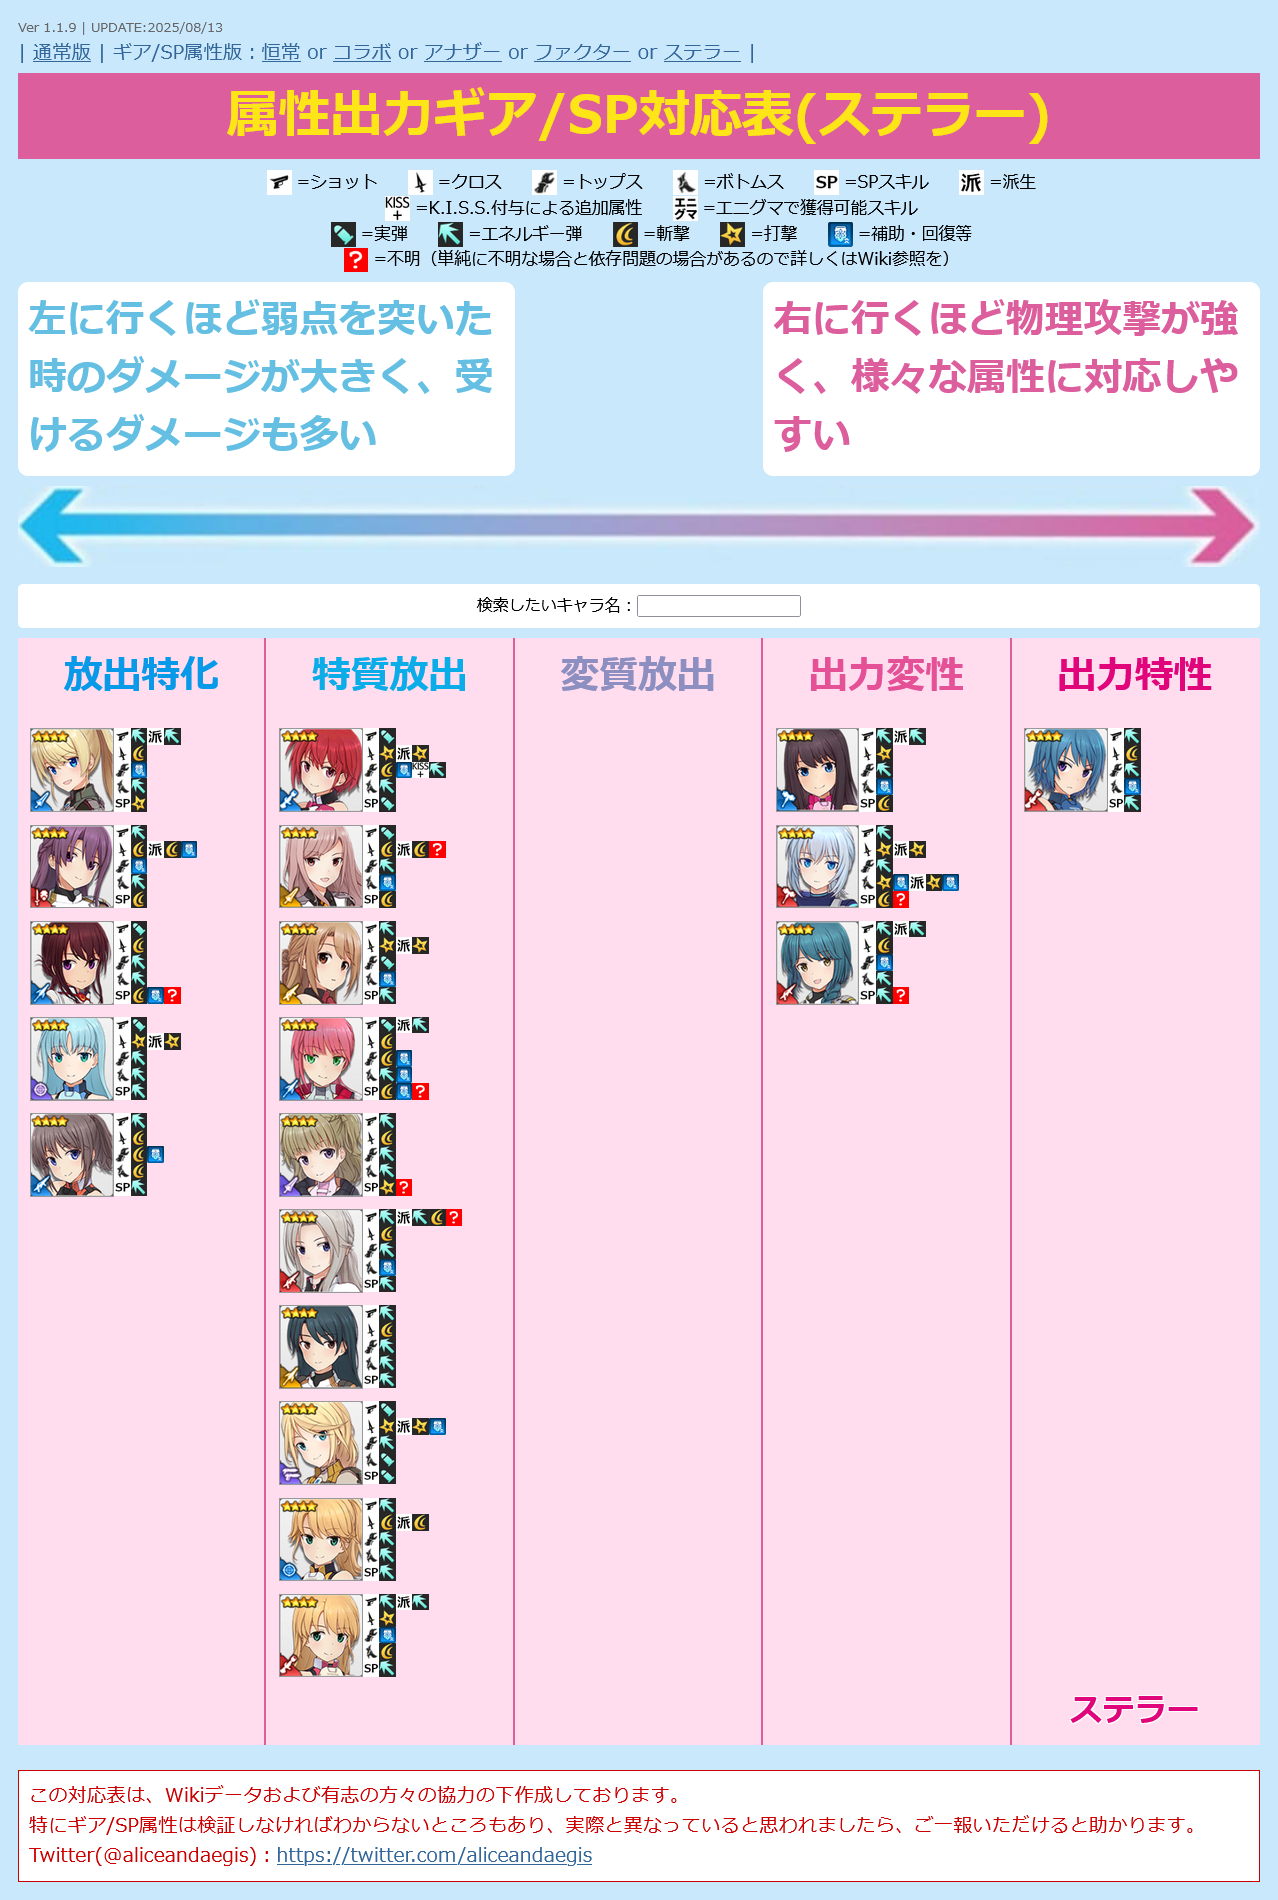
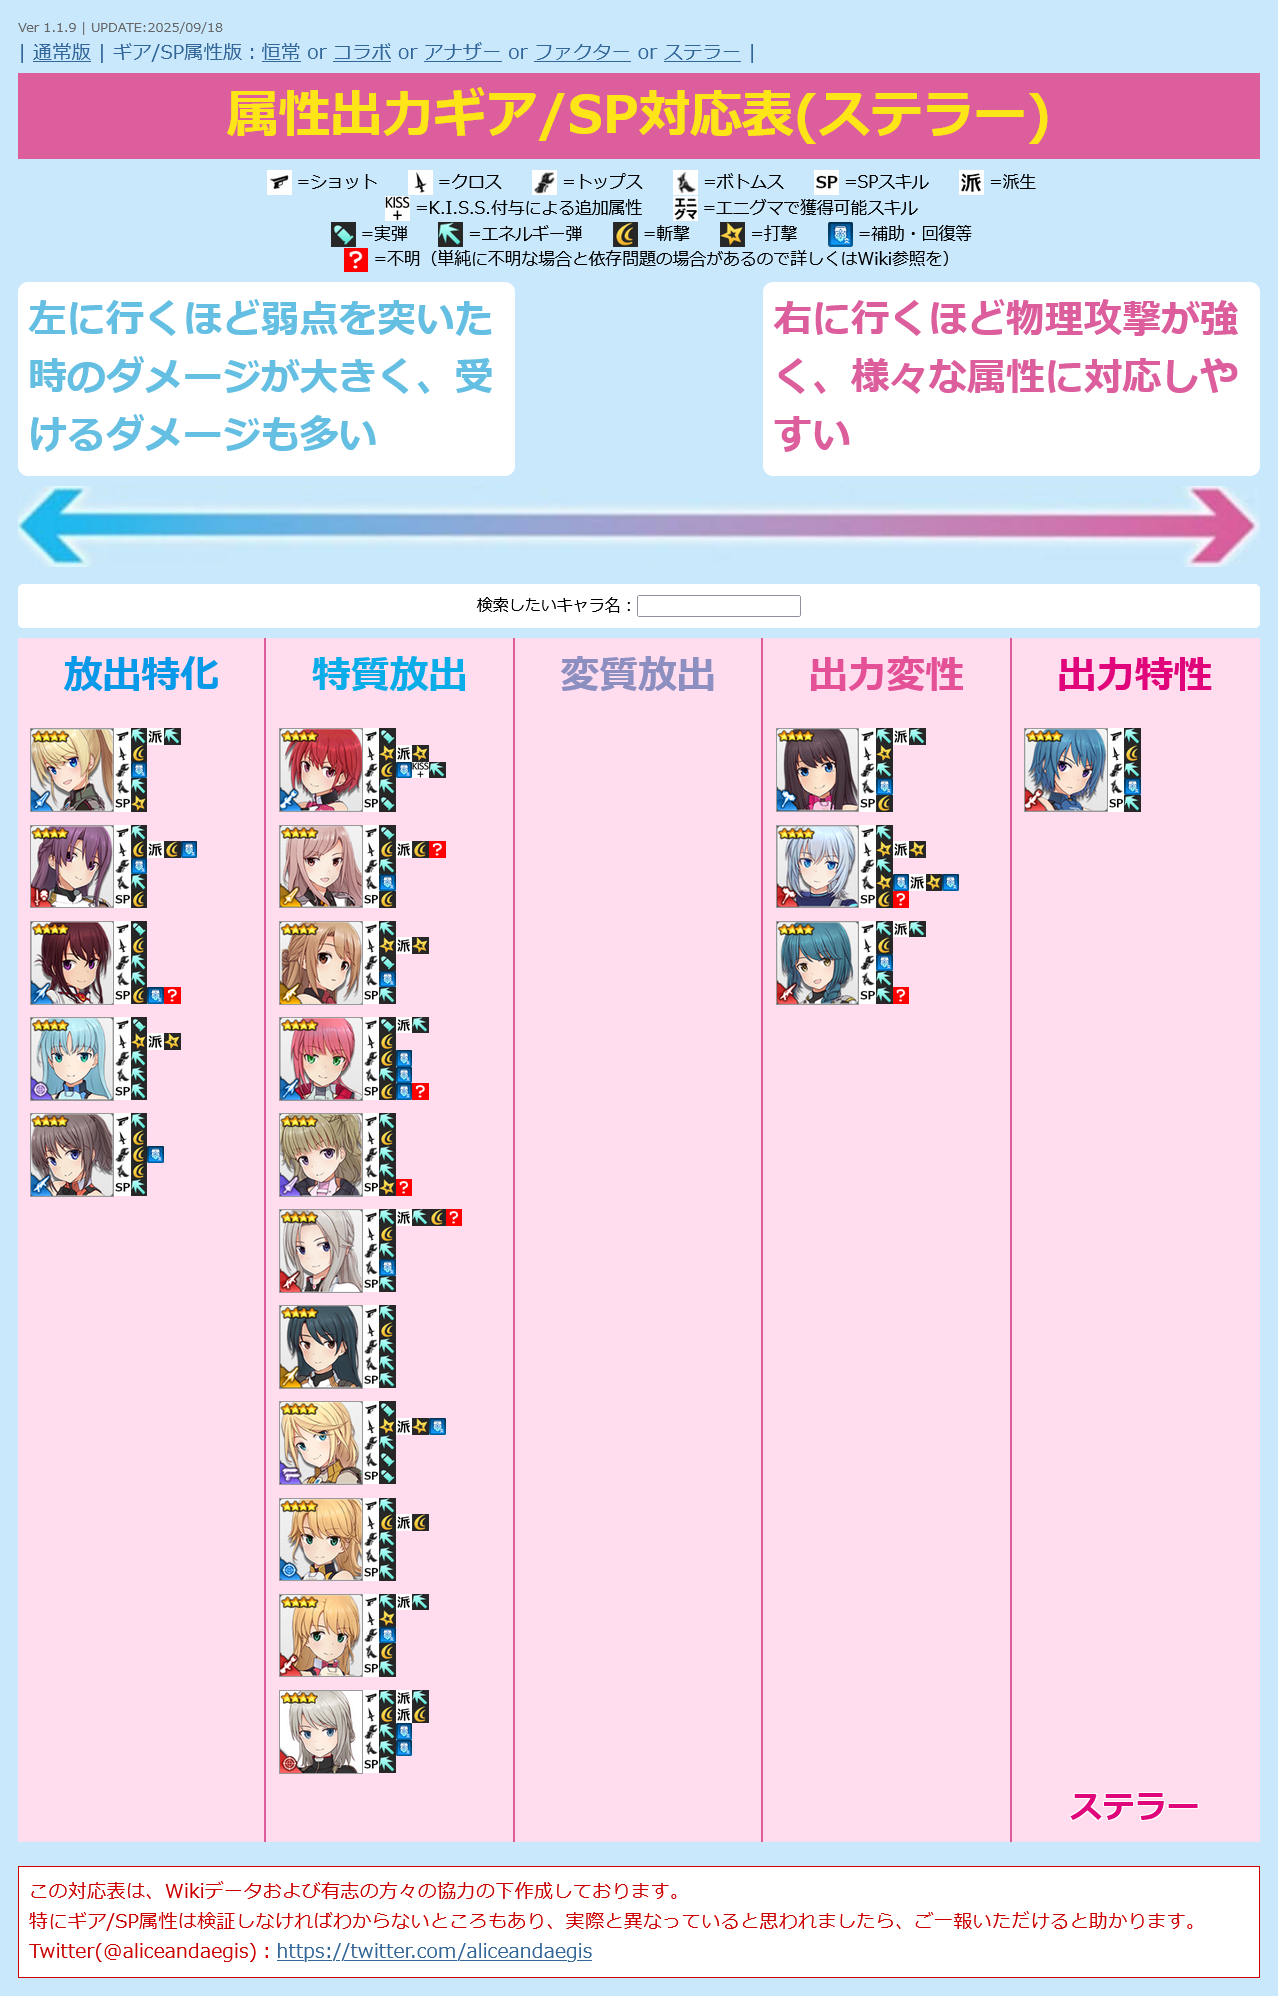
UPDATE charadata
・ステラー アデライーデ・ブルートハウゼン / プリーステスを追加

Changed region(s): [[0.0, 0.0, 1.0, 0.9937], [0.0305, 0.0, 0.1831, 0.0311]]

diff --git a/alice.html b/alice.html
@@ -12,7 +12,7 @@
   <script>
 
 /* 更新情報 必要に応じて書き換えてください */
-  var version = "Ver 1.1.9 | UPDATE:2025/08/29";
+  var version = "Ver 1.1.9 | UPDATE:2025/09/18";
 
 
 /*
@@ -2276,6 +2276,20 @@
       "attr": "4",
       "link": "https://wikiwiki.jp/alicegear/%E3%82%A2%E3%83%87%E3%83%A9%E3%82%A4%E3%83%BC%E3%83%87%E3%83%BB%E3%83%96%E3%83%AB%E3%83%BC%E3%83%88%E3%83%8F%E3%82%A6%E3%82%BC%E3%83%B3%E7%91%9E%E8%8A%B1",
       "category": "10"
+    },
+    {
+      "id": "56",
+      "type": "2",
+      "src": "stellar-adie.png",
+      "name": "アデライーデ・ブルートハウゼン / プリーステス",
+      "equip1": "2/2",
+      "equip2": "3/3",
+      "equip3": "25",
+      "equip4": "25",
+      "sp": "2",
+      "attr": "3",
+      "link": "https://wikiwiki.jp/alicegear/%E3%82%A2%E3%83%87%E3%83%A9%E3%82%A4%E3%83%BC%E3%83%87%E3%83%BB%E3%83%96%E3%83%AB%E3%83%BC%E3%83%88%E3%83%8F%E3%82%A6%E3%82%BC%E3%83%B3/%E3%83%97%E3%83%AA%E3%83%BC%E3%82%B9%E3%83%86%E3%82%B9",
+      "category": "12"
     },
     {
       "id": "57",
